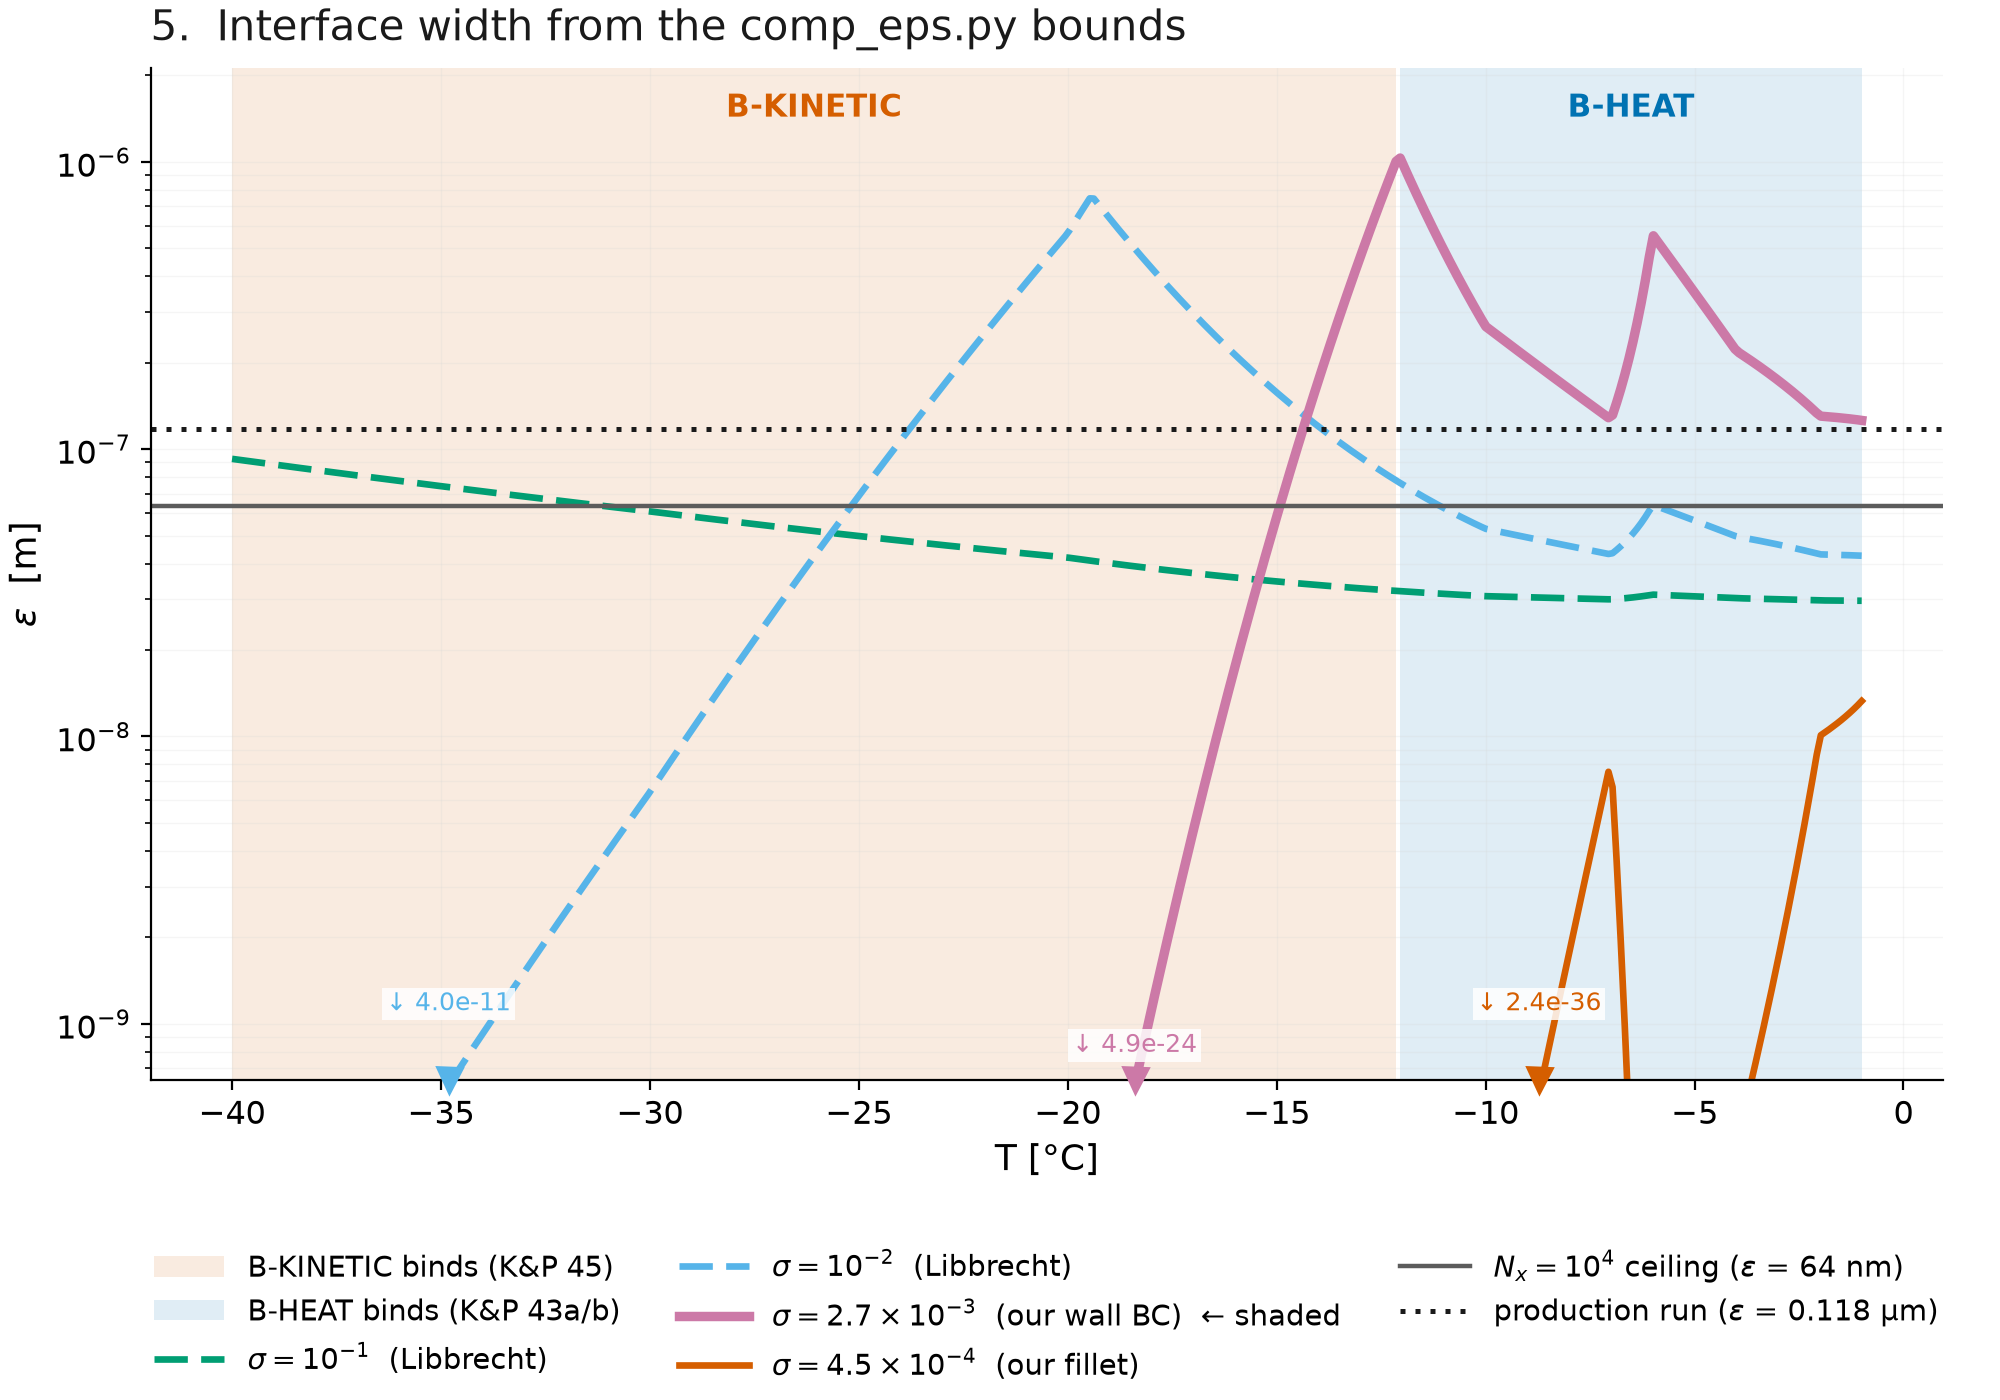
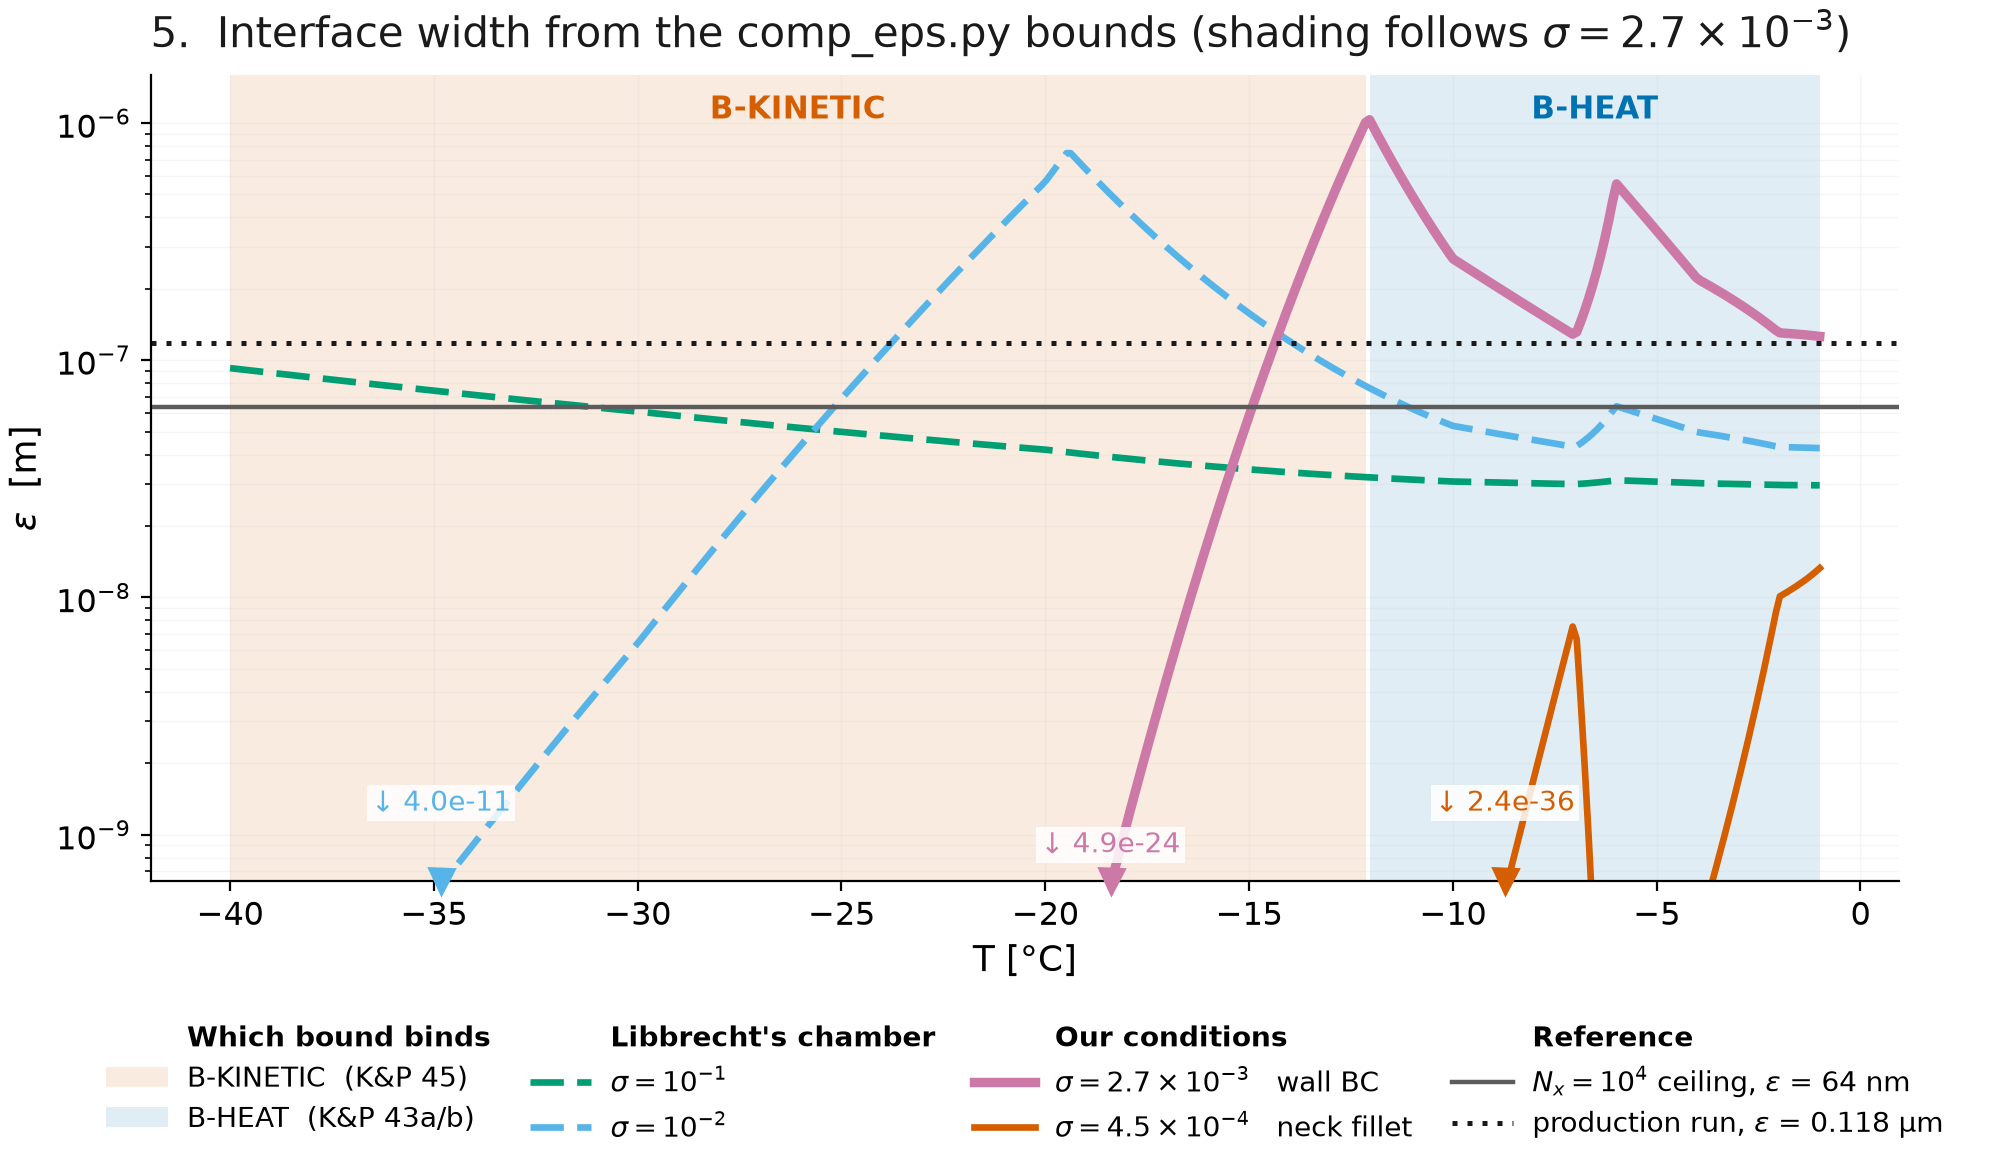
Group the legend entries; 10 pt floor; 10 x 5.8 panels
A flat strip of eight legend entries is a lookup problem -- the reader
scans the whole row to find one curve. matplotlib fills a multi-column
legend column-major, so padding each group to equal length puts every
group in its own column under its own bold heading. The groups are the
same on every panel: which bound binds, Libbrecht's chamber, our
conditions, reference.

That also shortens the entries. The heading carries the provenance, so
each label only has to carry its number: "sigma = 2.7e-3  wall BC"
rather than "Molaro wall BC, sigma = 2.7e-3". Panel 5's "<- shaded"
suffix moves into the title, which now states outright which sigma the
shading follows.

Canvas is 10 x 5.8 in at 200 dpi -- 10 x 5 of plot plus the legend strip
-- and nothing is set below 10 pt.

Claude-Session: https://claude.ai/code/session_01BVdmhQKeceS9YYRoWfp7Wf

diff --git a/projects/enceladus_DSM/preprocess/plot_libbrecht_constraints.py b/projects/enceladus_DSM/preprocess/plot_libbrecht_constraints.py
@@ -76,6 +76,7 @@ import numpy as np
 import matplotlib
 matplotlib.use("Agg")
 import matplotlib.pyplot as plt
+from matplotlib.lines import Line2D
 
 sys.path.insert(0, str(Path(__file__).resolve().parent))
 import comp_eps as ce
@@ -89,20 +90,30 @@ BOUND_COLOR = {"B-HEAT": C[0], "B-VAPOR": C[5], "B-KINETIC": C[1], "B-CURV": C[2
 # Short, because these ride in a legend under the axes. The formulas they
 # used to carry live in docs/tex/constraints_iguanatex.txt.
 BOUND_LABEL = {
-    "B-HEAT":    "B-HEAT binds (K&P 43a/b)",
-    "B-VAPOR":   "B-VAPOR binds (K&P 43c)",
-    "B-KINETIC": "B-KINETIC binds (K&P 45)",
-    "B-CURV":    "B-CURV binds (geometric)",
+    "B-HEAT":    "B-HEAT  (K&P 43a/b)",
+    "B-VAPOR":   "B-VAPOR  (K&P 43c)",
+    "B-KINETIC": "B-KINETIC  (K&P 45)",
+    "B-CURV":    "B-CURV  (geometric)",
 }
 
 # The supersaturations in play. Value, colour, label, and whether it is a
 # condition WE impose or one LIBBRECHT measured at.
 SIGMA_CASES = [
-    (1.0e-1, C[2], "$\\sigma = 10^{-1}$  (Libbrecht)", "lab"),
-    (1.0e-2, C[5], "$\\sigma = 10^{-2}$  (Libbrecht)", "lab"),
-    (2.7e-3, C[3], "$\\sigma = 2.7\\times10^{-3}$  (our wall BC)", "ours"),
-    (4.5e-4, C[1], "$\\sigma = 4.5\\times10^{-4}$  (our fillet)", "ours"),
+    (1.0e-1, C[2], "$\\sigma = 10^{-1}$", "lab"),
+    (1.0e-2, C[5], "$\\sigma = 10^{-2}$", "lab"),
+    (2.7e-3, C[3], "$\\sigma = 2.7\\times10^{-3}$   wall BC", "ours"),
+    (4.5e-4, C[1], "$\\sigma = 4.5\\times10^{-4}$   neck fillet", "ours"),
 ]
+
+# Legend group headings. Which sigma a curve belongs to is the first thing a
+# reader needs, and it is exactly what the entry label cannot say briefly --
+# so the heading says it once for the pair.
+GRP_LAB = "Libbrecht's chamber"
+GRP_OURS = "Our conditions"
+GRP_BIND = "Which bound binds"
+GRP_REF = "Reference"
+SIG_LAB = [l for _v, _c, l, k in SIGMA_CASES if k == "lab"]
+SIG_OURS = [l for _v, _c, l, k in SIGMA_CASES if k == "ours"]
 
 # a = (m/rho_ice)^(1/3): the molecular length already implied by the constants
 # in comp_eps.py. Below it a continuum phase field means nothing.
@@ -115,12 +126,13 @@ ALPHA_CEIL = 1.0            # every impinging molecule sticks
 # sized for a projector rather than for a screen an arm's length away. One
 # scheme serves both the standalone figures and the overview grid, because
 # FIGSIZE and OVERVIEW_SIZE keep the per-panel area roughly equal.
-FS_TITLE, FS_LABEL, FS_TICK, FS_LEG, FS_NOTE = 15, 13, 11.5, 10.5, 10
-FIGSIZE = (10.0, 7.0)
-# 3 x FIGSIZE wide, so each overview panel gets the same area the standalone
-# does. Anything smaller and the legends -- which sit UNDER the axes -- either
-# overflow into the neighbouring column or squeeze the plot to nothing.
-OVERVIEW_SIZE = (3 * FIGSIZE[0], 2 * FIGSIZE[1] + 1.0)
+# Nothing here is below 10 pt.
+FS_TITLE, FS_LABEL, FS_TICK, FS_LEG, FS_NOTE = 15, 13, 11.5, 10, 10
+# 10 x 5 of plot, plus an inch for the legend strip underneath it.
+FIGSIZE = (10.0, 5.8)
+# One standalone panel per grid cell: anything smaller and the legends -- which
+# sit UNDER the axes -- overflow into the neighbouring column.
+OVERVIEW_SIZE = (3 * FIGSIZE[0], 2 * FIGSIZE[1])
 
 # -------------------------------------------------------------------------
 # The display window.
@@ -134,12 +146,12 @@ OVERVIEW_SIZE = (3 * FIGSIZE[0], 2 * FIGSIZE[1] + 1.0)
 # -------------------------------------------------------------------------
 VIEW_ALPHA = (ce.ALPHA_LIT_LO * 1e-2, 2.5)        # band 1e-3..1e-1, +2 decades
 MF_BETA_LO, MF_BETA_HI = 2.0e4, 2.0e6             # M&F (2024) Table S1
-VIEW_BETA = (MF_BETA_LO * 1e-2, MF_BETA_HI * 1e2)
+VIEW_BETA = (1.0e3, MF_BETA_HI * 1e2)   # trimmed: nothing runs below 1e3
 
 # Mesh window, in Nx. NX_USABLE is what we can actually run; the frame is
 # opened up ~2.3 decades above it so the molecular limit Lx/a stays visible.
 NX_USABLE = 1.0e4
-VIEW_NX = (3.0e2, 1.0e6)
+VIEW_NX = (4.0e2, 1.0e6)
 
 
 def _mark_offscale(a, x, y, color, fmt="{:.1e}", row=0):
@@ -171,8 +183,7 @@ def _mark_offscale(a, x, y, color, fmt="{:.1e}", row=0):
         a.plot([x[j]], [edge], mk, ms=9, color=color, clip_on=False, zorder=7)
         a.annotate(f"{arrow} {fmt.format(extreme(y))}", (x[j], edge),
                    xytext=(0, -pad if va == "top" else pad),
-                   textcoords="offset points", fontsize=FS_NOTE - 1,
-                   color=color,
+                   textcoords="offset points", fontsize=FS_NOTE, color=color,
                    ha="center", va=va, zorder=7,
                    bbox=dict(boxstyle="square,pad=0.15", fc="white", ec="none",
                              alpha=0.85))
@@ -190,16 +201,42 @@ def _style(a, xlabel, ylabel, title, logy=True, title_size=FS_TITLE, pad=10):
     a.tick_params(labelsize=FS_TICK)
 
 
-def _legend(a, ncol=3, size=FS_LEG):
-    """Legend beneath the axes.
+def _blank():
+    """An invisible handle, so a group heading can occupy a legend row."""
+    return Line2D([], [], linestyle="none", marker="none")
 
-    Four curves sweeping the full diagonal leave no corner free, and reserving
-    an empty band inside the frame costs the zoom that makes these panels
-    readable. Putting it outside is the only arrangement that covers nothing.
+
+def _legend(a, groups, y=-0.165):
+    """One legend under the axes, laid out as titled columns.
+
+    Eight entries in a flat strip is a lookup problem: the reader has to scan
+    the whole row to find the curve they want. matplotlib fills a multi-column
+    legend column-major, so padding every group to the same length puts each
+    group in its own column under its own bold heading -- and the headings are
+    what carry the provenance the short entry labels leave out.
+
+    `groups` is [(heading, [label, ...]), ...]; labels not actually plotted in
+    this panel are skipped, so one group list can serve several panels.
     """
-    a.legend(fontsize=size, frameon=False, loc="upper center", ncol=ncol,
-             bbox_to_anchor=(0.5, -0.155), handlelength=2.4,
-             columnspacing=2.0, borderaxespad=0.0)
+    have = {lbl: h for h, lbl in zip(*a.get_legend_handles_labels())}
+    cols = [(t, [k for k in keys if k in have]) for t, keys in groups]
+    cols = [c for c in cols if c[1]]
+    rows = max(len(keys) for _t, keys in cols)
+    handles, labels, headings = [], [], set()
+    for title, keys in cols:
+        handles.append(_blank()); labels.append(title); headings.add(title)
+        for k in keys:
+            handles.append(have[k]); labels.append(k)
+        handles += [_blank()] * (rows - len(keys))
+        labels += [""] * (rows - len(keys))
+    leg = a.legend(handles, labels, ncol=len(cols), loc="upper center",
+                   bbox_to_anchor=(0.5, y), fontsize=FS_LEG, frameon=False,
+                   handlelength=2.2, handletextpad=0.7, columnspacing=1.4,
+                   labelspacing=0.45, borderaxespad=0.0, alignment="left")
+    for t in leg.get_texts():
+        if t.get_text() in headings:
+            t.set_fontweight("bold")
+    return leg
 
 
 def _ls(kind):
@@ -221,7 +258,7 @@ def panel_sigma0(a, T, ctx):
            label="$\\sigma_0(T)$ as coded")
     a.plot(ce._SIG0_T[:9], ce._SIG0_S[:9], "o", ms=7, color=C[0],
            markerfacecolor="white", markeredgewidth=1.8, zorder=5,
-           label="Libbrecht (2017) table, 9 points")
+           label="table, 9 points in range")
     a.annotate("non-monotonic kink at $-6/-7$ °C\n(a digitisation artifact,\n"
                "not physics)", (-6.6, 6.6e-3), xytext=(-14.5, 3.0e-3),
                fontsize=FS_NOTE, color=C[1], ha="center", va="center",
@@ -236,7 +273,8 @@ def panel_sigma0(a, T, ctx):
     a.set_ylim(2.0e-3, 6.0e-1)
     _style(a, "T [°C]", "$\\sigma_0$  (critical supersaturation) [-]",
            "1.  Libbrecht's data: $\\sigma_0(T)$")
-    _legend(a, ncol=2)
+    _legend(a, [("Libbrecht (2017)", ["$\\sigma_0(T)$ as coded",
+                                      "table, 9 points in range"])])
 
 
 def panel_alpha_vs_sigma0(a, T, ctx):
@@ -251,7 +289,7 @@ def panel_alpha_vs_sigma0(a, T, ctx):
         a.plot(s0, y, lw=2.4, color=col, ls=_ls(kind), label=lbl)
         _mark_offscale(a, s0, y, col, row=i % 2)
     a.axhline(ALPHA_CEIL, lw=1.6, color=INK, alpha=0.7,
-              label="$\\alpha_c = 1$ (physical ceiling)")
+              label="$\\alpha_c = 1$  physical ceiling")
     # Where the table's own sigma0 values sit, so x carries physical marks.
     for Tm in (-2.0, -20.0, -40.0):
         s0m = ce.sigma0(Tm)
@@ -264,7 +302,8 @@ def panel_alpha_vs_sigma0(a, T, ctx):
                fontsize=FS_NOTE, color=C[0], va="center")
     _style(a, "$\\sigma_0(T)$  [-]", "$\\alpha_c$  [-]",
            "2.  $\\alpha_c = \\exp(-\\sigma_0/\\sigma)$ against $\\sigma_0$")
-    _legend(a, ncol=3)
+    _legend(a, [(GRP_LAB, SIG_LAB), (GRP_OURS, SIG_OURS),
+                (GRP_REF, ["$\\alpha_c = 1$  physical ceiling"])])
 
 
 def panel_alpha_vs_T(a, T, ctx):
@@ -278,26 +317,28 @@ def panel_alpha_vs_T(a, T, ctx):
         a.plot(T, y, lw=2.4, color=col, ls=_ls(kind), label=lbl)
         _mark_offscale(a, T, y, col, row=i % 2)
     a.axhline(ALPHA_CEIL, lw=1.6, color=INK, alpha=0.7,
-              label="$\\alpha_c = 1$ (physical ceiling)")
+              label="$\\alpha_c = 1$  physical ceiling")
     a.axhline(ctx["alpha_run"], lw=1.8, ls=(0, (1, 2)), color=INK,
-              label=f"$\\alpha_c$ = {ctx['alpha_run']:g} (what we run)")
+              label=f"$\\alpha_c$ = {ctx['alpha_run']:g}  what we run")
     _style(a, "T [°C]", "$\\alpha_c$  [-]",
            "3.  $\\alpha_c(T)$: two decades down in $\\sigma$, "
            "thirty down in $\\alpha_c$")
-    _legend(a, ncol=3)
+    _legend(a, [(GRP_LAB, SIG_LAB), (GRP_OURS, SIG_OURS),
+                (GRP_REF, ["$\\alpha_c = 1$  physical ceiling",
+                           f"$\\alpha_c$ = {ctx['alpha_run']:g}  what we run"])])
 
 
 def panel_beta_vs_T(a, T, ctx):
     """4. beta_sub(T). The defining equation rides in the title, not the frame,
     so it cannot land on the legend or on a curve."""
     a.axhspan(MF_BETA_LO, MF_BETA_HI, color=C[2], alpha=0.14, zorder=0,
-              label="M&F (2024) Table S1: $2\\times10^4$–$2\\times10^6$ s/m")
+              label="M&F (2024) Table S1")
     a.set_ylim(*VIEW_BETA)
     for i, (sig, col, lbl, kind) in enumerate(SIGMA_CASES):
         a.plot(T, ctx["beta"][sig], lw=2.4, color=col, ls=_ls(kind), label=lbl)
         _mark_offscale(a, T, ctx["beta"][sig], col, row=i % 2)
     a.axhline(ctx["beta_run"], lw=1.8, ls=(0, (1, 2)), color=INK,
-              label=f"$\\beta_{{sub}}$ = {ctx['beta_run']:.2e} s/m (what we run)")
+              label=f"$\\beta_{{sub}}$ = {ctx['beta_run']:.1e} s/m  what we run")
     _style(a, "T [°C]", "$\\beta_{sub}$  [s/m]",
            "4.  Attachment resistance $\\beta_{sub} \\propto 1/\\alpha_c$\n\n"
            r"$\beta_{sub}(T)=\dfrac{\beta_{HK}}{\rho_{vs}(T)/\rho_i}"
@@ -305,7 +346,10 @@ def panel_beta_vs_T(a, T, ctx):
            r"\sqrt{\dfrac{2\pi m}{k_B T}}\,,\qquad"
            r"\alpha_c=\exp\left[-\sigma_0(T)/\sigma\right]$",
            title_size=13, pad=14)
-    _legend(a, ncol=3)
+    _legend(a, [(GRP_LAB, SIG_LAB), (GRP_OURS, SIG_OURS),
+                (GRP_REF, ["M&F (2024) Table S1",
+                           f"$\\beta_{{sub}}$ = {ctx['beta_run']:.1e} s/m  "
+                           f"what we run"])])
 
 
 def panel_eps_vs_T(a, T, ctx):
@@ -316,16 +360,22 @@ def panel_eps_vs_T(a, T, ctx):
     for i, (sig, col, lbl, kind) in enumerate(SIGMA_CASES):
         a.plot(T, ctx["eps"][sig], lw=3.4 if sig == prim else 2.4, color=col,
                ls=_ls(kind),
-               label=lbl + ("  ← shaded" if sig == prim else ""))
+               label=lbl)
         _mark_offscale(a, T, ctx["eps"][sig], col, row=i % 2)
     a.axhline(ctx["eps_usable"], lw=1.6, color=MUTED,
-              label=f"$N_x = 10^4$ ceiling ($\\epsilon$ = "
-                    f"{ctx['eps_usable']*1e9:.0f} nm)")
+              label=f"$N_x = 10^4$ ceiling, $\\epsilon$ = "
+                    f"{ctx['eps_usable']*1e9:.0f} nm")
     a.axhline(ctx["eps_run"], lw=1.8, ls=(0, (1, 2)), color=INK,
-              label=f"production run ($\\epsilon$ = {ctx['eps_run']*1e6:.3g} µm)")
+              label=f"production run, $\\epsilon$ = {ctx['eps_run']*1e6:.3g} µm")
     _style(a, "T [°C]", "$\\epsilon$  [m]",
-           "5.  Interface width from the comp_eps.py bounds")
-    _legend(a, ncol=3)
+           "5.  Interface width from the comp_eps.py bounds "
+           "(shading follows $\\sigma = 2.7\\times10^{-3}$)")
+    _legend(a, [(GRP_BIND, [BOUND_LABEL["B-KINETIC"], BOUND_LABEL["B-HEAT"]]),
+                (GRP_LAB, SIG_LAB), (GRP_OURS, SIG_OURS),
+                (GRP_REF, [f"$N_x = 10^4$ ceiling, $\\epsilon$ = "
+                           f"{ctx['eps_usable']*1e9:.0f} nm",
+                           f"production run, $\\epsilon$ = "
+                           f"{ctx['eps_run']*1e6:.3g} µm"])])
 
 
 def panel_Nx_vs_T(a, T, ctx):
@@ -338,13 +388,15 @@ def panel_Nx_vs_T(a, T, ctx):
                ls=_ls(kind), label=lbl)
         _mark_offscale(a, T, ctx["Nx"][sig], col, fmt="{:.0e}", row=i % 2)
     a.axhline(NX_USABLE, lw=1.6, color=MUTED,
-              label="$N_x = 10^4$ practical ceiling")
+              label="$N_x = 10^4$  practical ceiling")
     a.axhline(ctx["Nx_run"], lw=1.8, ls=(0, (1, 2)), color=INK,
-              label=f"production mesh, $N_x$ = {ctx['Nx_run']} "
-                    f"({ctx['nodes_run']/1e6:.1f} M nodes)")
+              label=f"production mesh, $N_x$ = {ctx['Nx_run']}")
     _style(a, "T [°C]", "$N_x$  [nodes across $L_x$]",
            "6.  The mesh Libbrecht's $\\alpha_c$ demands")
-    _legend(a, ncol=3)
+    _legend(a, [(GRP_BIND, [BOUND_LABEL["B-KINETIC"], BOUND_LABEL["B-HEAT"]]),
+                (GRP_LAB, SIG_LAB), (GRP_OURS, SIG_OURS),
+                (GRP_REF, ["$N_x = 10^4$  practical ceiling",
+                           f"production mesh, $N_x$ = {ctx['Nx_run']}"])])
 
 
 def _shade_binding(a, T, binding, y_frac=0.975):

diff --git a/projects/enceladus_DSM/studies/libbrecht_kinetics/README.md b/projects/enceladus_DSM/studies/libbrecht_kinetics/README.md
@@ -40,13 +40,17 @@ from what the sizer does.
 **Axis windows.** Plotted full-range these quantities span sixty decades and
 the usable band is a hairline, so every axis is clipped to the *literature*
 band opened up by two decades on each side — α_c to [1e-5, 2.5], β_sub to
-[2e2, 2e8] around M&F's [2e4, 2e6], and N_x to [3e2, 1e6] around the
+[1e3, 2e8] around M&F's [2e4, 2e6], and N_x to [4e2, 1e6] around the
 N_x = 10⁴ practical ceiling. Panel 5's ε window is the exact reciprocal of
 panel 6's N_x window, so the two read against each other.
 
-Legends sit **under** the axes, not inside them. Four curves sweeping the full
-diagonal leave no free corner, and reserving an empty band inside the frame
-costs the zoom that makes these panels readable in the first place.
+**Format.** 10 × 5.8 in at 200 dpi — 10 × 5 of plot plus a legend strip under
+it — with nothing set below 10 pt, so a panel can fill a slide.
+
+Legends sit **under** the axes, not inside them (four curves sweeping the full
+diagonal leave no free corner), and they are split into titled columns:
+*Which bound binds* · *Libbrecht's chamber* · *Our conditions* · *Reference*.
+The heading carries the provenance, so each entry only has to carry its number.
 
 Where a curve leaves the frame it is marked on the edge with the extreme it
 reaches, so nothing is hidden; the full range is in

diff --git a/projects/enceladus_DSM/.claude/ACTIVITY_LOG.md b/projects/enceladus_DSM/.claude/ACTIVITY_LOG.md
@@ -1,3 +1,24 @@
+## 2026-09-02 (final) — Grouped legends, 10 pt floor, 10 x 5.8 panels
+
+- Panels regenerated at 10 x 5.8 in / 200 dpi (10 x 5 of plot plus a legend
+  strip), with no type below 10 pt: FS_TITLE 15, FS_LABEL 13, FS_TICK 11.5,
+  FS_LEG 10, FS_NOTE 10. Verified by resolving every fontsize expression in
+  the source -- min is exactly 10.
+- The flat 8-entry legend strip was a lookup problem. `_legend()` now takes
+  [(heading, [labels])] and exploits matplotlib's COLUMN-MAJOR fill: pad each
+  group to equal length and every group lands in its own column under its own
+  bold heading. Groups are consistent across panels -- "Which bound binds",
+  "Libbrecht's chamber", "Our conditions", "Reference".
+- Because the heading now carries the provenance, the entries shrank to the
+  number alone: "sigma = 1e-1" instead of "Libbrecht chamber, sigma = 1e-1",
+  and "sigma = 2.7e-3  wall BC" instead of "Molaro wall BC, sigma = 2.7e-3".
+- Panel 5's "<- shaded" suffix moved into the title, which now says outright
+  that the shading follows sigma = 2.7e-3.
+- Trimmed dead space: VIEW_BETA bottom 2e2 -> 1e3 (nothing runs below 1.5e3),
+  VIEW_NX bottom 3e2 -> 4e2 (lowest curve 6e2).
+
+---
+
 ## 2026-09-02 (end of day) — Legends outside; IguanaTeX snippets actually work
 
 - **The IguanaTeX snippets did not generate.** I had validated every block
